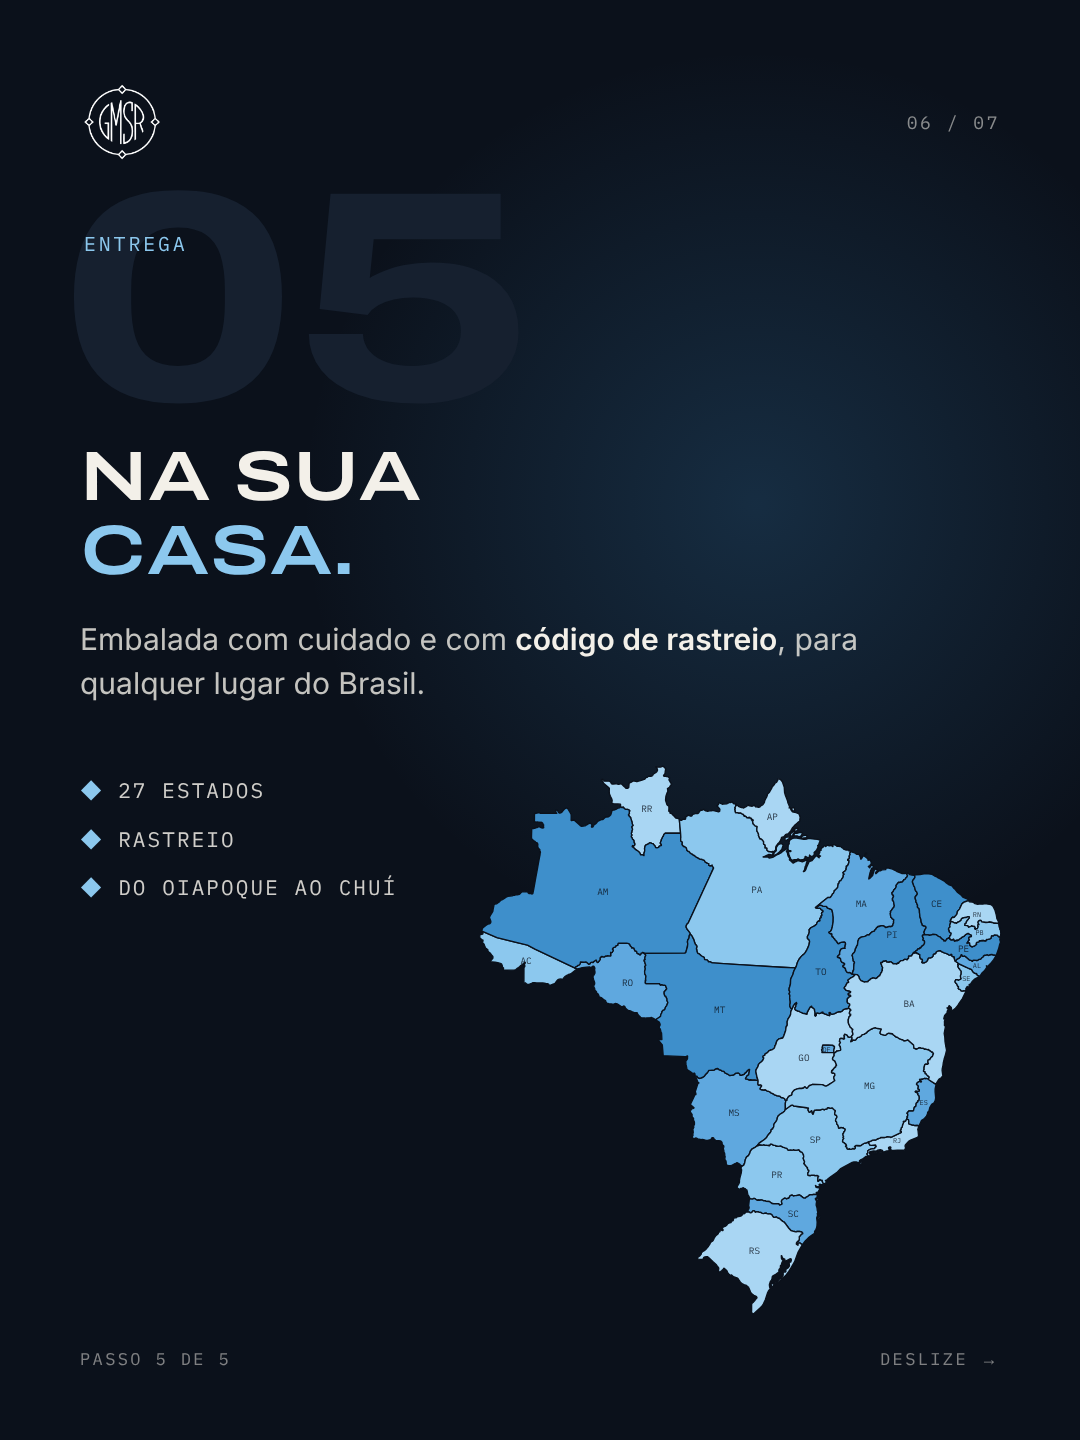
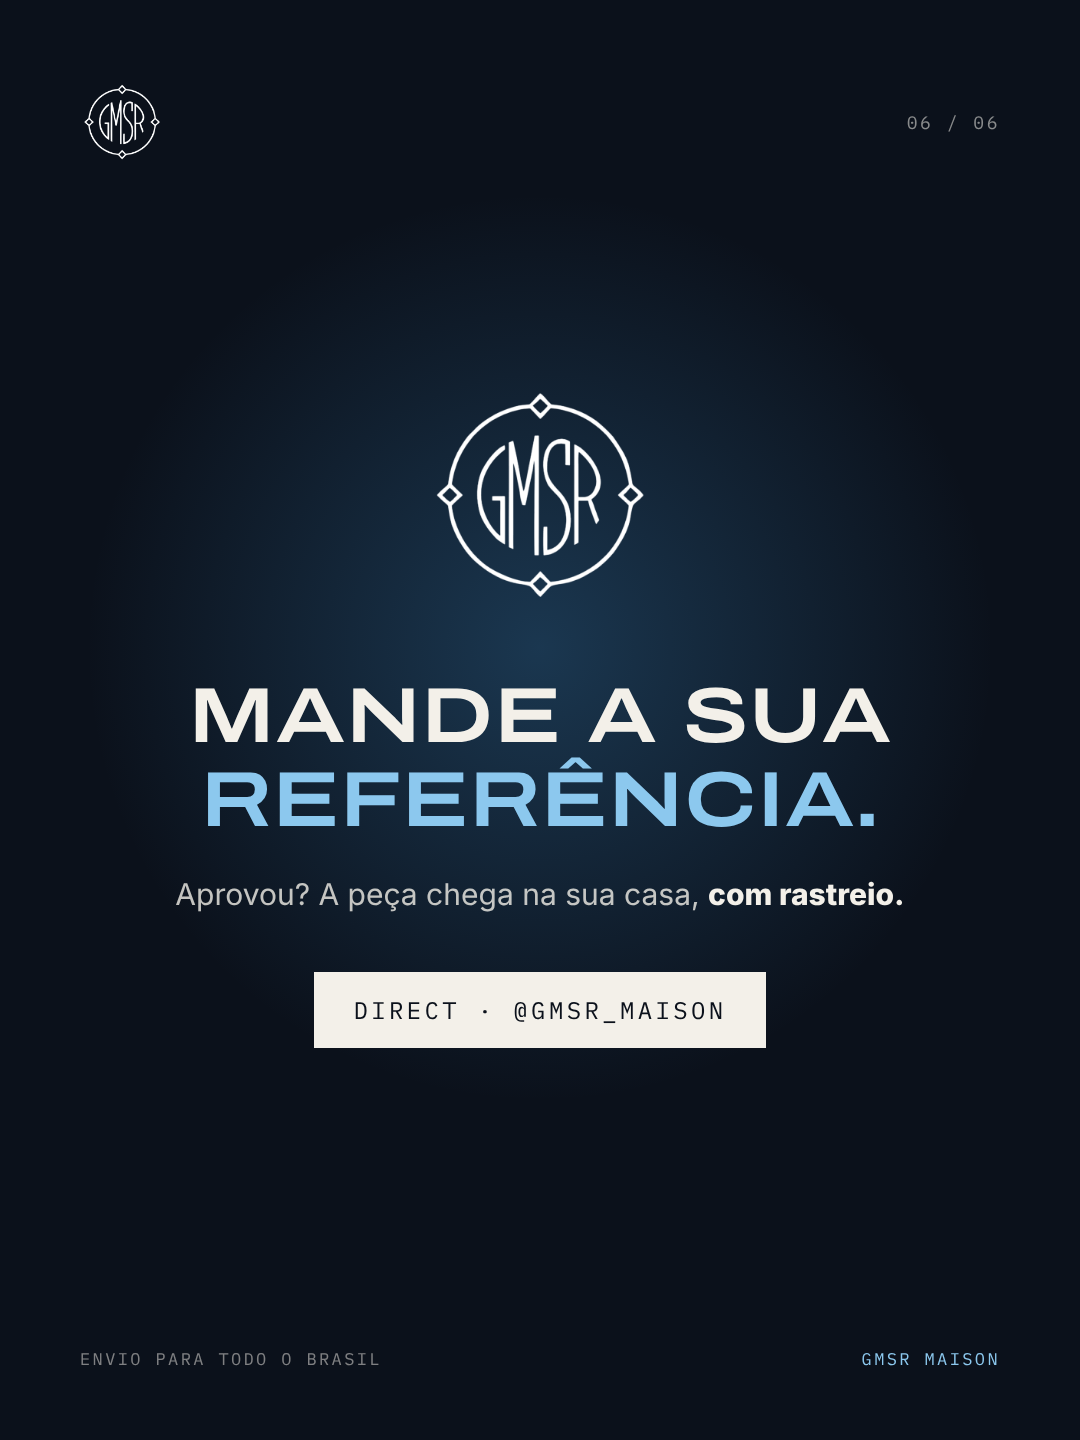
Carrossel: remove o slide do mapa (o mapa é o post principal da grade)
- Carrossel "Como funciona" passa a ter 6 slides
- A entrega com rastreio fica citada no slide final

Claude-Session: https://claude.ai/code/session_018Rxm36svjxPgU3W8TLCnbb

diff --git a/posts-grade/03-carrossel-processo/slides.html b/posts-grade/03-carrossel-processo/slides.html
@@ -175,21 +175,12 @@
   </div>
   <div class="foot mono"><span>Passo 4 de 5</span><span>Deslize →</span></div></div></section>
 
-<!-- 06 · ENTREGA -->
-<section class="slide tile"><div class="c3"><div class="top"><img src="../../assets/logo/gmsr-mono-branco.png" alt=""><span class="mono counter"></span></div>
-  <div class="big">05</div><div class="lbl mono">Entrega</div>
-  <div class="body"><div class="w h">Na sua<br><em>casa.</em></div>
-    <p style="max-width:900px">Embalada com cuidado e com <b>código de rastreio</b>, para qualquer lugar do Brasil.</p>
-    <div class="chips"><div><i>◆</i>27 estados</div><div><i>◆</i>Rastreio</div><div><i>◆</i>Do Oiapoque ao Chuí</div></div></div>
-  <div class="mini"><div class="mapa" data-cores="#8CC8EE,#5FA8DF,#A9D6F3,#3E8FCB" data-fundo="#0B111B" data-label="#0B111B"></div></div>
-  <div class="foot mono"><span>Passo 5 de 5</span><span>Deslize →</span></div></div></section>
-
-<!-- 07 · FINAL -->
+<!-- 06 · FINAL -->
 <section class="slide tile"><div class="c3" style="background:radial-gradient(60% 45% at 50% 45%,rgba(62,143,203,.3),transparent 70%),#0B111B"><div class="top"><img src="../../assets/logo/gmsr-mono-branco.png" alt=""><span class="mono counter"></span></div>
   <div style="position:absolute;left:80px;right:80px;top:380px;text-align:center;z-index:3">
     <img src="../../assets/logo/gmsr-mono-branco.png" style="width:230px" alt="">
     <div class="w" style="font-weight:600;font-size:78px;margin-top:60px;line-height:1.08">Mande a sua<br><em>referência.</em></div>
-    <p style="font-family:Inter;font-size:30px;color:rgba(243,240,233,.8);margin-top:34px">A gente cuida do resto.</p>
+    <p style="font-family:Inter;font-size:30px;color:rgba(243,240,233,.8);margin-top:34px">Aprovou? A peça chega na sua casa, <b style="color:#F3F0E9">com rastreio.</b></p>
     <div class="mono" style="display:inline-block;margin-top:60px;background:#F3F0E9;color:#0B111B;padding:22px 40px;font-size:24px">Direct · @gmsr_maison</div>
   </div>
   <div class="foot mono"><span>Envio para todo o Brasil</span><span><em>GMSR Maison</em></span></div></div></section>

diff --git a/site-data.js b/site-data.js
@@ -29,8 +29,7 @@ window.VERSIONS = [
           "posts-grade/03-carrossel-processo/png/slide-03.png",
           "posts-grade/03-carrossel-processo/png/slide-04.png",
           "posts-grade/03-carrossel-processo/png/slide-05.png",
-          "posts-grade/03-carrossel-processo/png/slide-06.png",
-          "posts-grade/03-carrossel-processo/png/slide-07.png"
+          "posts-grade/03-carrossel-processo/png/slide-06.png"
         ],
         "ratio": "3/4",
         "preview": false

diff --git a/README.md b/README.md
@@ -12,7 +12,7 @@ O site é o `index.html` da raiz. Depois de gerar PNGs novos, rode `npm run site
 
 ## Posts
 
-O site mostra a **grade do perfil** [`posts-grade/02-grade-mapa-processo`](posts-grade/02-grade-mapa-processo): o mapa na esquerda (sozinho) e, no meio e na direita, uma arte contínua com "Quem é o dono?" e "Como funciona". A ordem de postagem está no `legenda.md`. O post da direita vira o carrossel [`posts-grade/03-carrossel-processo`](posts-grade/03-carrossel-processo) (7 slides), cujo slide 1 é a própria arte da grade.
+O site mostra a **grade do perfil** [`posts-grade/02-grade-mapa-processo`](posts-grade/02-grade-mapa-processo): o mapa na esquerda (sozinho) e, no meio e na direita, uma arte contínua com "Quem é o dono?" e "Como funciona". A ordem de postagem está no `legenda.md`. O post da direita vira o carrossel [`posts-grade/03-carrossel-processo`](posts-grade/03-carrossel-processo) (6 slides), cujo slide 1 é a própria arte da grade.
 
 Os posts não citam nomes de marcas nem afirmam originalidade. As pastas `posts/`, `posts-v2/`, `posts-v3/`, `posts-extra/` e `posts-grade/01-grade-loja` são rascunhos antigos e não aparecem no site.
 

diff --git a/posts-grade/03-carrossel-processo/legenda.md b/posts-grade/03-carrossel-processo/legenda.md
@@ -1,7 +1,7 @@
 # Carrossel · Como funciona (post da direita da grade)
 
-**Formato:** carrossel, 7 slides (1080×1440, 3:4)
-**Imagens:** `png/slide-01.png` … `png/slide-07.png`
+**Formato:** carrossel, 6 slides (1080×1440, 3:4)
+**Imagens:** `png/slide-01.png` … `png/slide-06.png`
 
 O slide 1 é o mesmo post da direita da grade (`posts-grade/02-grade-mapa-processo/png/slide-03.png`). Use este carrossel **no lugar** dele: na grade do perfil aparece só o slide 1, então a arte continua conectada com o post do meio.
 
